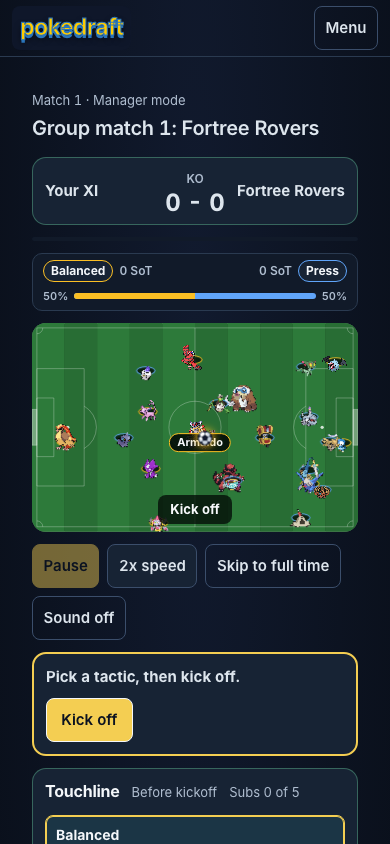
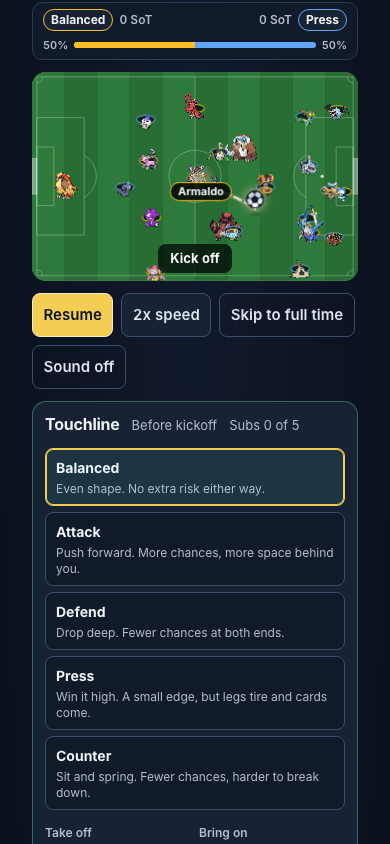
docs(matchday): pre-match merge decision log, STATE and browser proof
Claude-Session: https://claude.ai/code/session_01C8KyuF8iXGbjsVJBXSd4AR

diff --git a/docs/decisions/prematch-merge.md b/docs/decisions/prematch-merge.md
@@ -1,0 +1,155 @@
+# Pre-match merge (Wave 3, row 3f)
+
+Tier Yellow. Branch `feat/prematch-merge` off `origin/main` at `bcf5493`. No file under
+`src/engine`, `src/data` or `src/scouting` changed, so the engine goldens are untouched.
+
+## Scope
+
+Re-verified at `bcf5493`:
+
+- `stopsFor` (`src/ui/matchday/clock.ts:52`) built a `kickoff` stop at minute 0. `MatchPlayer`
+  showed it as the "Pick a tactic, then kick off." dialog (`STOP_COPY.kickoff`), with the Touchline
+  open below it. Its tactic pill went through `manager.decide(0, ...)`, which is `onDecide` in
+  `MatchdayFlow`, which calls `decide(ctx, cup, actions, index, 0, d)`.
+- `PreMatch` (`src/components/matchday/MatchdayFlow.tsx`) showed opponent, style, your shape, the
+  absence line, your eleven and `BossRoster`, and a "Go to the match" button.
+- `precheck` in `src/ui/manager/touchline.ts` refuses a tactic equal to the current one, and the
+  side starts at `"balanced"` (`sideState`). Engine 6 `applyManager` sets `managed` for any action.
+
+The change:
+
+- `stopsFor` no longer builds a kickoff stop, and `StopKind` drops `"kickoff"`. Half time, extra
+  time and injury stops are unchanged. `STOP_COPY.kickoff` is gone.
+- `src/components/matchday/TacticPills.tsx` (new) is the five-pill group the Touchline had inline,
+  with its CSS moved out of `Touchline.module.css` unchanged. The Touchline and `PreMatch` both
+  render it. Test ids stay `tactic-<name>`.
+- `PreMatch` takes `start`, the side's tactic at minute 0 from `touchlineAt(..., 0)` in manager
+  mode and `undefined` in sim mode. In manager mode it shows the pills under the facts, labelled
+  "Starting tactic". Sim mode shows none.
+- The button reads "Kick off". It calls `onKickOff(tactic)` only with a tactic that differs from
+  `start`; otherwise it passes `null` and `MatchdayFlow` records nothing. A changed tactic goes
+  through the same `onDecide(0, { kind: "tactic", tactic })` the kickoff stop used. If `decide`
+  refuses, the card stays with the reason in a `role="alert"` line; otherwise the match mounts and
+  the clock runs at once (`running` already started true in manager mode).
+
+## RED output (verbatim excerpt)
+
+RED commit `995c229` (8 of 23 failed across 4 files):
+
+```
+     × stops at the injury at 45 before the half-time whistle and each later injury, never at 0' (catches the kickoff stop the pre-match tactic replaced) 3ms
+     × finds the next unanswered stop 1ms
+     × Kick off starts the clock with no stop at 0' (catches a managed match held at a kickoff stop) 3ms
+     × Attack on PreMatch records { type: 'tactic', match: 0, minute: 0, tactic: 'attack' } 69ms
+     × Balanced on PreMatch records no action and never calls decide 12ms
+     × offers the five tactics in manager mode and labels the button Kick off 66ms
+     × shows no tactic pills with manager mode off, and Kick off still records nothing 10ms
+     × with manager on, pace is live regardless of saved matchView: 1600 ms reaches 2', not 32' 202ms
+AssertionError: expected +0 to be 2 // Object.is equality
+TestingLibraryElementError: Unable to find an element by: [data-testid="tactic-attack"]
+TestingLibraryElementError: Unable to find an element by: [data-testid="tactic-balanced"]
+TestingLibraryElementError: Unable to find an accessible element with the role "group" and name "Starting tactic"
+AssertionError: expected 'Go to the match' to be 'Kick off' // Object.is equality
+AssertionError: expected [ 'kickoff', 'injury:45:4', …(2) ] to deeply equal [ 'injury:45:4', 'halftime', …(1) ]
+AssertionError: expected 'kickoff' to be 'halftime' // Object.is equality
+AssertionError: expected { key: 'kickoff', …(2) } to be null
+ Test Files  4 failed (4)
+      Tests  8 failed | 15 passed (23)
+```
+
+The guards:
+
+- `src/ui/matchday/__tests__/player.test.ts`: one tick from `START` with `running: true` and the
+  stops `stopsFor` builds leaves `stop === null`, `running === true` and the minute at
+  `16 / PACE.live.regulation`.
+- `src/ui/matchday/__tests__/clock.test.ts`: the stop keys are `injury:45:4`, `halftime`,
+  `injury:70:6`, with no `kickoff`.
+- `src/components/matchday/__tests__/MatchdayFlow.pace.test.tsx`: the managed match reaches 2'
+  after 1600 ms with no `stop-go` click.
+- `src/components/matchday/__tests__/MatchdayFlow.prematch.test.tsx` (new): Attack then Kick off
+  reports exactly `[{ type: "tactic", match: 0, minute: 0, tactic: "attack" }]`. Attack, then
+  Balanced, then Kick off reports `[]` and `decide` is called 0 times (a wrapping mock of
+  `@/ui/manager/touchline` counts calls). The pills are the five `TACTICS` in order and the button
+  reads "Kick off". Sim mode has no pills, and Kick off calls `decide` 0 times.
+
+The sim-mode guard passed before the fix in part (no pills existed anywhere); it failed on the
+button label. It stays as a guard that must stay green.
+
+## Measurements
+
+Pill boxes on the pre-match card in Playwright (chromium, `CI=1`), width x height in CSS px:
+
+| Viewport | Balanced | Attack | Defend | Press  | Counter |
+| -------- | -------- | ------ | ------ | ------ | ------- |
+| 390x844  | 300x58   | 300x74 | 300x58 | 300x74 | 300x74  |
+| 360x780  | 270x58   | 270x74 | 270x58 | 270x74 | 270x74  |
+| 320x640  | 230x74   | 230x74 | 230x74 | 230x74 | 230x74  |
+
+All five clear 44 px at every width, with no horizontal overflow. `quick-not-broadcast` logged a
+managed match at 5' after 3 s of live pace with no stop to answer.
+
+## Gates
+
+At `eb2af7b`: lint, typecheck and build exited 0; all seven `check:*` scripts exited 0; 1,486 unit
+tests passed in 172 files; Prettier passed on the touched files. Playwright (`CI=1`, fresh build):
+`prematch-merge` plus `manager-mode` 19 passed; `builder-matchday`, `quick-not-broadcast`,
+`mobile-pitch-fixes`, `injury-staging` and `watch-live` 10 passed; `mobile-targets` plus
+`mobile-acceptance` 360 passed and 54 skipped by their own project gates.
+
+## Product decisions applied
+
+- Decision 1 (manager mode plays live) is unchanged; the pace guard still reads live pace.
+- Decision 3 (blind challenges): the pills add no number. Nothing new appears with ratings off.
+- Decision 4 (assistant after a decision): keeping Balanced records nothing, so the assistant stays
+  on for the match. The hand-off measured a Balanced kickoff action at 0.8 to 5.3 win-rate points
+  lost because it switches the assistant off.
+
+## Implementation decisions
+
+- PreMatch skips `decide` when the tactic equals `start`, not only when it is Balanced. For a fresh
+  match `start` is Balanced, which is the case the row names. For a restored match whose token
+  already has a 0' tactic, `start` is that tactic, so kicking off again records nothing twice. The
+  guard counts `decide` calls instead of relying on `precheck`'s refusal.
+- One shared `TacticPills` with a `label` prop, not a fork. The Touchline keeps its own "skip the
+  current tactic" check in its `onPick`; PreMatch only selects. The Touchline renders the same
+  markup and classes, so its layout does not change.
+- `prematch-go` keeps its test id. Every spec that opens a match clicks it.
+- The "matchday live touchline" mobile scene used the kickoff stop to hold the touchline still. It
+  now waits for the clock to pass 0', pauses with `play-toggle`, and names `play-toggle` (Resume) as
+  its primary action.
+- `mobile-pitch-fixes` checked all 22 sprites at the kickoff stop. It now pauses straight after Kick
+  off and checks the 22 sprites and that the clock is at 2' or earlier. It logged 0' and 22 of 22.
+  The screenshot keeps its old file name (`390-kickoff-stop.png`) so no other report links break.
+
+## Brief vs code
+
+- The brief says PreMatch shows "style, weakest line and key player". At `bcf5493` it shows
+  opponent, style, your shape, the absence line, both elevens and `BossRoster`. Nothing computes a
+  weakest line or a key player. This row does not invent them; the pills sit next to the facts
+  that exist. Carryover to Wave 4 (pre-match).
+- The brief says opponent style and Team Score "stay in the match header". At `bcf5493` the match
+  header (`MatchdayFlow` `header`) shows "Match n" with "Manager mode", and the round and opponent
+  name. The scoreboard shows "Your XI", the clock, the score and the opponent name. The HUD shows
+  each side's current tactic, which is not the opponent's style. Opponent style shows only on the
+  pre-match card, and it still does. Team Score shows nowhere in the matchday. This row adds
+  neither: a Team Score in the header would be a new number that must hide with ratings off
+  (decision 3), and no row asks for it. Recorded for Wave 4.
+- The hand-off's guard wording "state after first tick: `stop === null`, `running === true`"
+  matches the real `PlayState` fields in `src/ui/matchday/player.ts`.
+- `applyManager` is at `src/engine/match.ts:560` as the hand-off says. Its first statement,
+  `managed = true` at :561, runs before the `a.tactic !== user.tactic` check, so a Balanced action
+  at 0' would switch the assistant off even though it changes nothing on the pitch.
+
+## NOT RUN
+
+- Physical phone check (owner action).
+- Review, hosted CI and the full e2e suite at the time of writing.
+
+## Risks and carryovers
+
+- The pills stack in one column at phone widths (the shared grid needs 150 px per column), so the
+  five take about 340 px of height on the pre-match card. The touchline has the same layout today.
+  Row 3a redesigns the collapsed pills for phones; this row does not fork them.
+
+- Weakest line and key player on the pre-match card (Wave 4, pre-match).
+- Team Score in the match header, hidden with ratings off, if the owner wants it (Wave 4).

diff --git a/STATE.md b/STATE.md
@@ -3,6 +3,27 @@
 Measured ground truth. Each PR's section cites its reviewed head and the gates run there; the merge
 and its squash SHA are recorded in the next PR's STATE update.
 
+## Pre-match merge
+
+Branch `feat/prematch-merge` off `bcf5493`. Matchday UI only (Yellow). No file under `src/engine`, `src/data` or `src/scouting` changed. Merge status, the squash SHA and the reviewer receipt go into the next STATE update.
+
+- In manager mode the pre-match card shows the five tactic pills, labelled "Starting tactic", next to the opponent, style and shape. Sim mode shows no pills.
+- The button reads "Kick off" and starts running play at once. The clock no longer stops at 0'. Half time, extra time and injury stops are unchanged.
+- Picking a tactic other than the one the side starts in records it at minute 0 through `decide`, the path the old kickoff stop used, so tokens and old replays are unchanged. Keeping Balanced records nothing, so the assistant stays on.
+- The touchline and the pre-match card share one `TacticPills` component. Every pill is at least 58 px tall at 390, 360 and 320 px.
+- The brief's "weakest line and key player" on the pre-match card and a Team Score in the match header do not exist in the code; both are recorded as Wave 4 carryovers, not invented.
+
+RED commit: `995c229` (8 of 23 failed).
+
+Gates at `eb2af7b` (code identical at the docs commit that adds this section):
+
+- Lint, typecheck and build exited 0. All seven `check:*` scripts exited 0. Prettier passed on the 20 touched files.
+- Unit tests: 1,486 passed in 172 files.
+- Playwright (`CI=1`, fresh build at `eb2af7b`): `prematch-merge` and `manager-mode` 19 passed; `builder-matchday`, `quick-not-broadcast`, `mobile-pitch-fixes`, `injury-staging` and `watch-live` 10 passed; `mobile-targets` and `mobile-acceptance` 360 passed, 54 skipped by their own project gates.
+- Review, hosted CI, the full e2e suite and a physical phone: NOT RUN at the time of writing.
+
+Measurements and decisions are in `docs/decisions/prematch-merge.md`. Browser proof: `docs/reports/prematch-merge/`.
+
 ## Wave 2 summary
 
 Branch `docs/wave2-summary` off `87e7d51`. Docs only (Green). Appends the Wave 2 entry to `docs/reports/audits-2026-10-17/program-log.md`: every PR with its squash and reviewed head, the production checks, the measurements that moved, brief-vs-code notes and open carryovers. Merge status, the squash SHA and the reviewer receipt go into the next STATE update.
